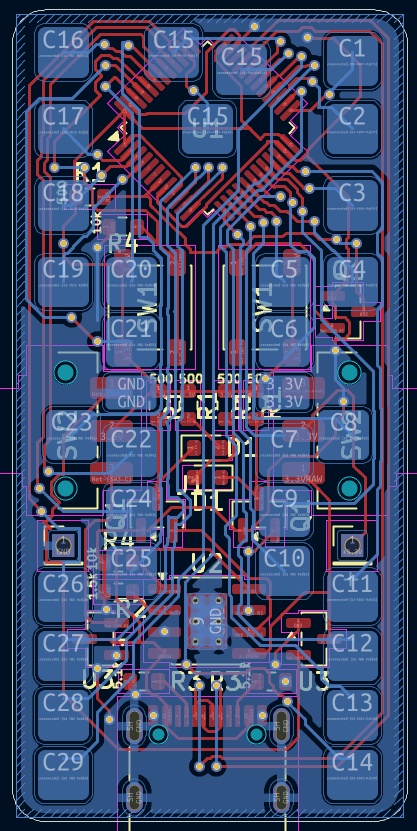
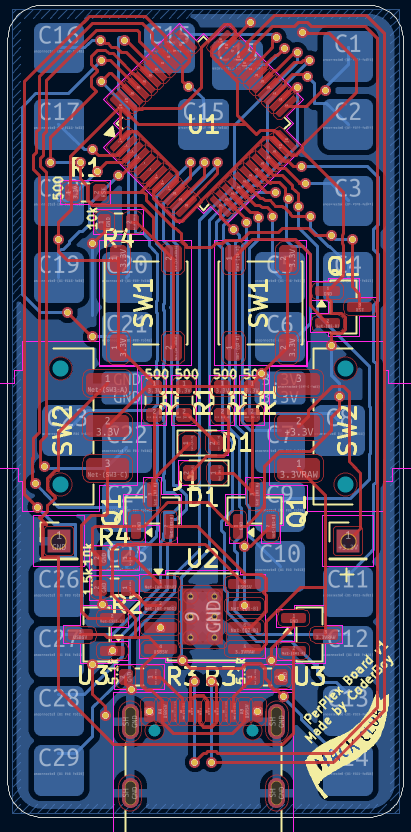
Updated Journal

diff --git a/JOURNAL.md b/JOURNAL.md
@@ -71,8 +71,8 @@ After asking a couple questions, I've found that it would be a better idea to ha
 
 # July 24 - Finishing Touches to PCB
 
-Not a lot today, mainly some finishing touches to PCB. I've seen a lot on Slack about "rounding thy corners", so I did that. I regenerated the GRBRs afterwards and sent them to JLC.\
-I am also going to update the readme fully with updated pictures of everything.
+Not a lot today, mainly some finishing touches to PCB. I've seen a lot on Slack about "rounding thy corners", so I did that. I also added the name of the board and the hack club logo. After that, I regenerated the GRBRs afterwards and sent them to JLC.\
+I am also going to update the readme fully with updated pictures of everything.\
 
 **Total time spent: ~0.3 Hours**
 
